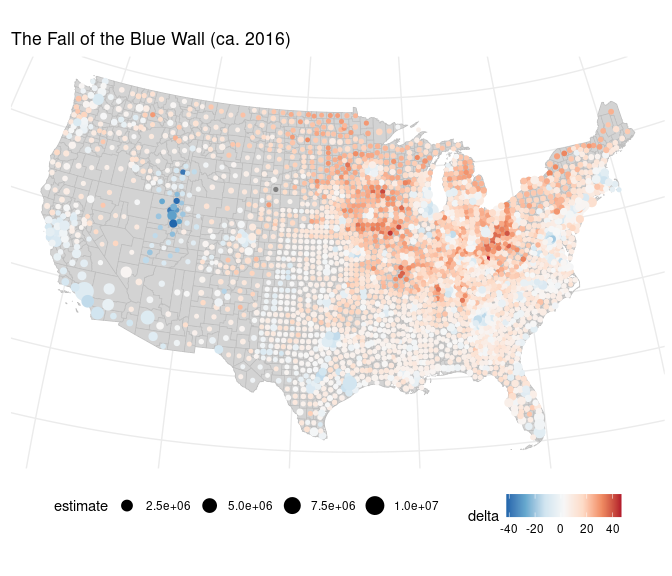
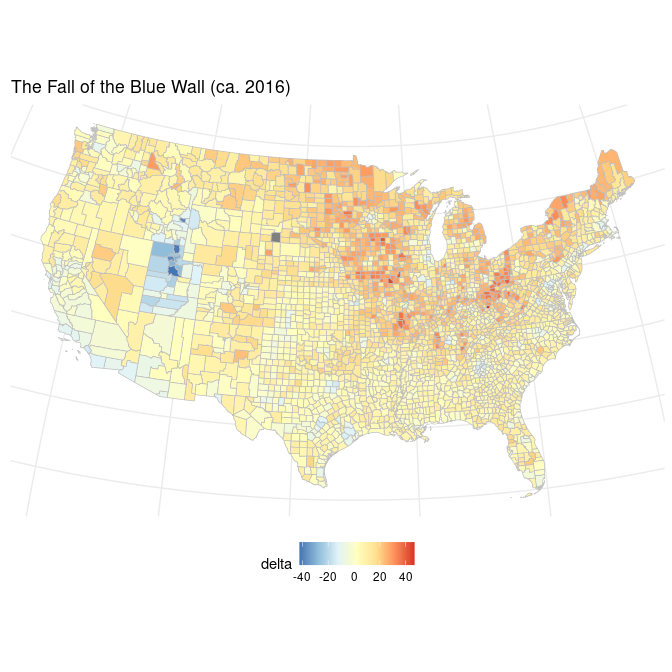
re

diff --git a/README.md b/README.md
@@ -211,8 +211,8 @@ vvo <- lapply(c('house', 'senate'), function(x) {
     filter(congress > con & chamber != 'President') }) #66
 ```
 
-    ## [1] "/tmp/RtmpRP9Wdt/Hall_members.csv"
-    ## [1] "/tmp/RtmpRP9Wdt/Sall_members.csv"
+    ## [1] "/tmp/Rtmp4FHCzs/Hall_members.csv"
+    ## [1] "/tmp/Rtmp4FHCzs/Sall_members.csv"
 
 ``` r
 congress <- vvo %>%
@@ -397,19 +397,15 @@ uspols::xsf_TileOutv10 %>%
 
 ### Fall of the Blue Wall - 2016
 
-> A county-level perspective on
+> A county-level perspective:
 
 ``` r
-pops <- tidycensus::get_acs(geography = 'county',
-                            variables = 'DP05_0001',
-                            year = 2018,
-                            survey = 'acs5', 
-                            geometry = T) %>%
-  filter(!grepl(paste0('^', nonx, collapse ='|'), GEOID)) %>%
+counties <- tigris::counties(cb = TRUE) %>% 
+  filter(!STATEFP %in% nonx) %>%
   sf::st_transform(laea)
 ```
 
-> Romeny margins in 2012 - Trump margins in 2016 –
+> Trump margins in 2016 *minus* Romney margins in 2012.
 
 ``` r
 deltas <- uspols::medsl_pres_county %>% ## address this
@@ -420,28 +416,19 @@ deltas <- uspols::medsl_pres_county %>% ## address this
   select(GEOID, year, margins) %>%
   spread(year, margins) %>%
   mutate(delta = X2016 - X2012)
-
-pops_deltas <- deltas %>%
-  left_join(pops, by = 'GEOID')
 ```
 
 ``` r
-points <-  sf::st_centroid(pops) %>%
-  left_join(deltas, by = 'GEOID')
-
-pops %>%
-  ggplot() + 
-  geom_sf(#aes(fill = 'white'), 
-    fill = 'lightgray',
+counties %>%
+  left_join(deltas, by = 'GEOID') %>%
+  ggplot() +
+  
+  geom_sf(aes(fill = delta),
           color = 'gray',
           size = .25) + 
   
-  geom_sf(data = points,
-          aes(size = estimate,
-              color = delta)) + #, alpha = .5
-  
-  scale_color_distiller(palette = "RdBu",  
-                        limit = max(abs(points$delta)) * c(-1, 1)) +
+  scale_fill_distiller(palette = "RdYlBu",  
+                        limit = max(abs(deltas$delta)) * c(-1, 1)) +
   
   theme_minimal() +
   theme(axis.title.x=element_blank(),
